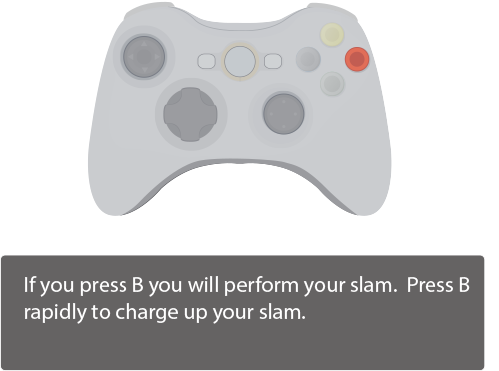
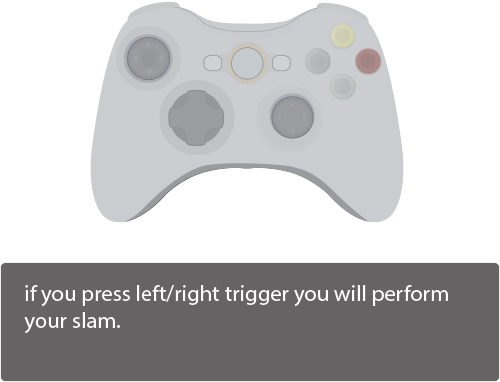
updated tutorial.

diff --git a/GameLib/Engine/Physics/Triggers/TutorialStopTriggerVolume.cs b/GameLib/Engine/Physics/Triggers/TutorialStopTriggerVolume.cs
@@ -6,6 +6,7 @@ using System.Linq;
 using System.Text;
 using Microsoft.Xna.Framework;
 using GameLib.Engine.AI;
+using Microsoft.Xna.Framework.Graphics;
 
 
 namespace GameLib
@@ -16,7 +17,7 @@ namespace GameLib
         InputAction[][] unpauseInput;
         bool[] allInputsRequired;
 #else
-        InputAction Green;
+        InputAction Red;
 #endif
         InputAction strum;
         InputAction back;
@@ -26,15 +27,27 @@ namespace GameLib
         bool finished;
         bool returnToMenu;
         ControlsQB cQB;
+        Microsoft.Xna.Framework.Input.GamePadType gp;
+
+        Texture2D tutImg;
+        Rectangle tutImgDim;
+
+        Texture2D guitarCont;
+        Rectangle guitarContDim;
+        Texture2D controllerCont;
+        Rectangle controllerContDim;
 
         //variables specifying the current progress
         bool triggered;
+
+        bool showing;
+        bool acceptingSkip;
 
         int tutIndex;
         int numTuts;
         float timer;
 
-        public Microsoft.Xna.Framework.Graphics.Texture2D[] tutImg { get; private set; }
+        public Texture2D[] tutImgs { get; private set; }
         public Rectangle[] imgDim { get; private set; }
 
 
@@ -107,6 +120,13 @@ namespace GameLib
 
         public override void Initialize(Stage stage)
         {
+            guitarCont = Stage.Content.Load<Texture2D>("UI/Tutorial/guitarContinueTut");
+            guitarContDim = new Rectangle((int)(Renderer.ScreenWidth * .5f) - 150, (int)(Renderer.ScreenHeight * .7f), 300, 100);
+
+            controllerCont = Stage.Content.Load<Texture2D>("UI/Tutorial/controllerContinueTut");
+            controllerContDim = new Rectangle((int)(Renderer.ScreenWidth * .5f) - 150, (int)(Renderer.ScreenHeight * .7f), 300, 100);
+
+            stage.GetQB<TriggerQB>().RegisterDrawFunction(Draw);
             numTuts = actor.Parm.GetInt("Num");
 
 #if INPUTREQUIRED
@@ -117,18 +137,18 @@ namespace GameLib
             killEnemies = new bool[numTuts];
             spawnEnemy = new bool[numTuts];
             triggerDelay = new float[numTuts];
-            tutImg = new Microsoft.Xna.Framework.Graphics.Texture2D[numTuts];
+            tutImgs = new Microsoft.Xna.Framework.Graphics.Texture2D[numTuts];
             imgDim = new Rectangle[numTuts];
 
             //get the control scheme
             cQB = stage.GetQB<ControlsQB>();
 
 #if !INPUTREQUIRED
-            Green = cQB.GetInputAction("A");
+            Red = cQB.GetInputAction("B");
             strum = cQB.GetInputAction("Strum");
 #endif
 
-            Microsoft.Xna.Framework.Input.GamePadType gp = cQB.GetGamePadType();
+           gp = cQB.GetGamePadType();
 
             Vector2 pos, size;
             switch (gp)
@@ -140,7 +160,7 @@ namespace GameLib
 #if INPUTREQUIRED
                         GetInput(j,actor.Parm.GetString("GuitarInput" + j), ref cQB);
 #endif
-                        tutImg[j] = Stage.Content.Load<Microsoft.Xna.Framework.Graphics.Texture2D>("UI/Tutorial/" + actor.Parm.GetString("GuitarImage" + j));
+                        tutImgs[j] = Stage.Content.Load<Texture2D>("UI/Tutorial/" + actor.Parm.GetString("GuitarImage" + j));
                         pos = actor.Parm.GetVector2("GuitarImagePos" + j);
                         size = actor.Parm.GetVector2("GuitarImageSize" + j);
                         imgDim[j] = new Rectangle((int)pos.X, (int)pos.Y, (int)size.X, (int)size.Y);
@@ -152,9 +172,12 @@ namespace GameLib
 #if INPUTREQUIRED
                         GetInput(j, actor.Parm.GetString("ControllerInput" + j), ref cQB);
 #endif
-                        tutImg[j] = Stage.Content.Load<Microsoft.Xna.Framework.Graphics.Texture2D>("UI/Tutorial/" + actor.Parm.GetString("ControllerImage" + j));
+                        tutImgs[j] = Stage.Content.Load<Texture2D>("UI/Tutorial/" + actor.Parm.GetString("GuitarImage" + j));
+                        //tutImgs[j] = Stage.Content.Load<Texture2D>("UI/Tutorial/" + actor.Parm.GetString("ControllerImage" + j));
                         pos = actor.Parm.GetVector2("ControllerImagePos" + j);
                         size = actor.Parm.GetVector2("ControllerImageSize" + j);
+                        //pos = actor.Parm.GetVector2("ControllerImagePos" + j);
+                        //size = actor.Parm.GetVector2("ControllerImageSize" + j);
                         imgDim[j] = new Rectangle((int)pos.X, (int)pos.Y, (int)size.X, (int)size.Y);
                     }
                     break;
@@ -218,24 +241,28 @@ namespace GameLib
 
         new public void Update(float dt)
         {
+            timer -= dt;
             if (!triggered) return;
             if (finished)
             {
-                timer -= dt;
                 if (timer <= 0)
                 {
                     Lock();
                 }
             }
-            
-            bool metRequirements = false;
-
-            Microsoft.Xna.Framework.Input.GamePadType gp = cQB.GetGamePadType();
-            if (gp == Microsoft.Xna.Framework.Input.GamePadType.Guitar ||
-                gp == Microsoft.Xna.Framework.Input.GamePadType.AlternateGuitar)
+            else if (timer <= 0)
             {
-                if (strum.IsNewAction)
+                acceptingSkip = true;
+                bool metRequirements = false;
+
+                //get this every time to account for controller switching?
+                //note the tutorial images won't actually switch, but the press to continue will
+                gp = cQB.GetGamePadType();
+                if (gp == Microsoft.Xna.Framework.Input.GamePadType.Guitar ||
+                    gp == Microsoft.Xna.Framework.Input.GamePadType.AlternateGuitar)
                 {
+                    if (strum.IsNewAction)
+                    {
 #if INPUTREQUIRED
                     if (unpauseInput.Length == 1 && unpauseInput[tutIndex][0].IsNewAction)
                     {
@@ -254,13 +281,13 @@ namespace GameLib
                             if (unpauseInput[tutIndex][i].value != 0) metRequirements = true;
                     }
 #else
-                    metRequirements = (Green.value != 0);
+                        metRequirements = (Red.value != 0);
 #endif
-                    if (metRequirements) UnLock(dt);
+                        if (metRequirements) UnLock(dt);
+                    }
                 }
-            }
-            else
-            {
+                else
+                {
 #if INPUTREQUIRED
                 if (unpauseInput.Length == 1 && unpauseInput[tutIndex][0].IsNewAction)
                 {
@@ -279,9 +306,10 @@ namespace GameLib
                         if (unpauseInput[tutIndex][i].value != 0) metRequirements = true;
                 }
 #else
-                metRequirements = Green.IsNewAction;
+                    metRequirements = Red.IsNewAction;
 #endif
-                if (metRequirements) UnLock(dt);
+                    if (metRequirements) UnLock(dt);
+                }
             }
         }
 
@@ -299,11 +327,11 @@ namespace GameLib
 
         private void UnLock(float dt)
         {
-
             finished = true;
             timer = triggerDelay[tutIndex];
 
-            Stage.ActiveStage.GetQB<TriggerQB>().tutorialPic.showing = false;
+            showing = false;
+            acceptingSkip = false;
 
             if (killEnemies[tutIndex])
                 Stage.ActiveStage.GetQB<AIQB>().KillAll();
@@ -317,16 +345,39 @@ namespace GameLib
 
         private void Lock()
         {
-
-            Stage.ActiveStage.GetQB<TriggerQB>().tutorialPic.changeImage(tutImg[tutIndex], imgDim[tutIndex], true);
-
-            if (spawnEnemy[tutIndex])
+            if (tutIndex < numTuts)
             {
-                Vector3 pos = actor.PhysicsObject.Position;
-                pos.Y += .5f;
-                Vector3 rot = Vector3.Zero;
-                Stage.ActiveStage.GetQB<AIQB>().Spawn("EnemyDumb", ref pos, ref rot, -1);
+                tutImg = tutImgs[tutIndex];
+                tutImgDim = imgDim[tutIndex];
+
+                if (spawnEnemy[tutIndex])
+                {
+                    Vector3 pos = actor.PhysicsObject.Position;
+                    pos.Y += 3.0f;
+                    Vector3 rot = Vector3.Zero;
+                    Stage.ActiveStage.GetQB<AIQB>().Spawn("EnemyDumb", ref pos, ref rot, -1);
+                }
             }
+            finished = false;
+            showing = true;
+            timer = 3.0f;
+        }
+
+        public void Draw()
+        {
+            //draw press to continue
+            if (acceptingSkip)
+            {
+                if (gp == Microsoft.Xna.Framework.Input.GamePadType.AlternateGuitar ||
+                    gp == Microsoft.Xna.Framework.Input.GamePadType.Guitar)
+                    Stage.renderer.SpriteBatch.Draw(guitarCont, guitarContDim, Color.White);
+                else
+                    Stage.renderer.SpriteBatch.Draw(controllerCont, controllerContDim, Color.White);
+            }
+
+            //draw
+            if (showing)
+                Stage.renderer.SpriteBatch.Draw(tutImg, tutImgDim, Color.White);
         }
 
         //this will break the game

diff --git a/GameLib/Engine/Physics/Triggers/TriggerQB.cs b/GameLib/Engine/Physics/Triggers/TriggerQB.cs
@@ -13,14 +13,17 @@ namespace GameLib
         public LinkedList<Actor> triggers = new LinkedList<Actor>();
         public List<textToScreen> ui = new List<textToScreen>();
 
-        /*public delegate void DrawFunc();
+        public delegate void DrawFunc();
         List<DrawFunc> drawList = new List<DrawFunc>();
         public void RegisterDrawFunction(DrawFunc drawFunc)
         {
             drawList.Add(drawFunc);
-        }*/
+        }
+        public void clearDrawList()
+        {
+            drawList.Clear();
+        }
 
-        public tutorialTexture tutorialPic = new tutorialTexture();
         ParameterSet Parm;
         SpriteFont font;
 
@@ -175,8 +178,10 @@ namespace GameLib
             foreach (textToScreen value in ui)
                 Stage.renderer.SpriteBatch.DrawString(font, value.text, value.position, value.color);
 
-            if (tutorialPic.showing)
-                Stage.renderer.SpriteBatch.Draw(tutorialPic.text, tutorialPic.dimensions, Color.White);
+            foreach (DrawFunc d in drawList)
+            {
+                d();
+            }
 
             base.DrawUI(dt);
 
@@ -237,33 +242,6 @@ namespace GameLib
             text = t;
             position = p;
             color = c;
-        }
-    }
-
-    public class tutorialTexture
-    {
-        public Texture2D text;
-        public Rectangle dimensions;
-
-        public bool showing;
-
-        public tutorialTexture()
-        {
-            showing = false;
-        }
-
-        public tutorialTexture(Texture2D t, Rectangle d, bool show)
-        {
-            text = t;
-            dimensions = d;
-            showing = show;
-        }
-
-        public void changeImage(Texture2D t, Rectangle d, bool show)
-        {
-            text = t;
-            dimensions = d;
-            showing = show;
         }
     }
 }

diff --git a/GameLib/Engine/Core/DebugQB.cs b/GameLib/Engine/Core/DebugQB.cs
@@ -108,7 +108,7 @@ namespace GameLib
         {
 #if DEBUG
             // debug menu info
-            Renderer.Instance.SpriteBatch.DrawString(font, avgFps.ToString("F", System.Globalization.CultureInfo.InvariantCulture), fpsPosition, Color.White);
+            Renderer.Instance.SpriteBatch.DrawString(font, avgFps.ToString("F", System.Globalization.CultureInfo.InvariantCulture), fpsPosition, Color.White,0,Vector2.Zero, 1, SpriteEffects.None, 10.0f);
 
 #if WINDOWS
             Renderer.Instance.SpriteBatch.DrawString(font, "RAM: " + (ram / 1024f / 1024f).ToString("F", System.Globalization.CultureInfo.InvariantCulture) + " MB", ramPosition, Color.White);
